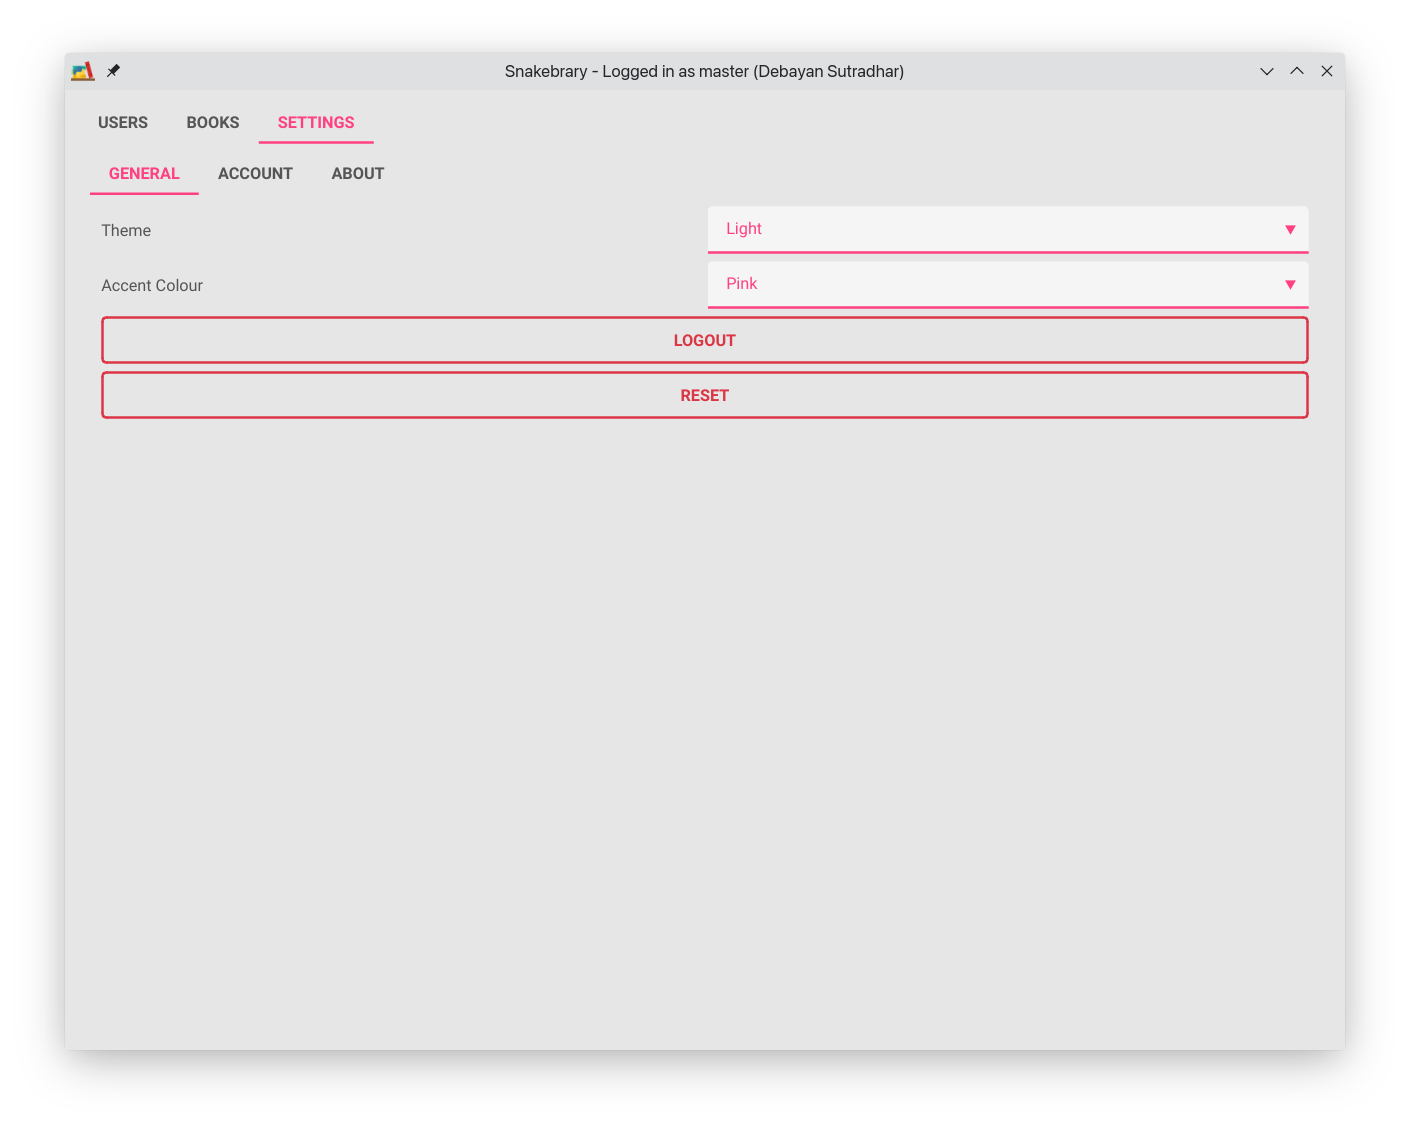
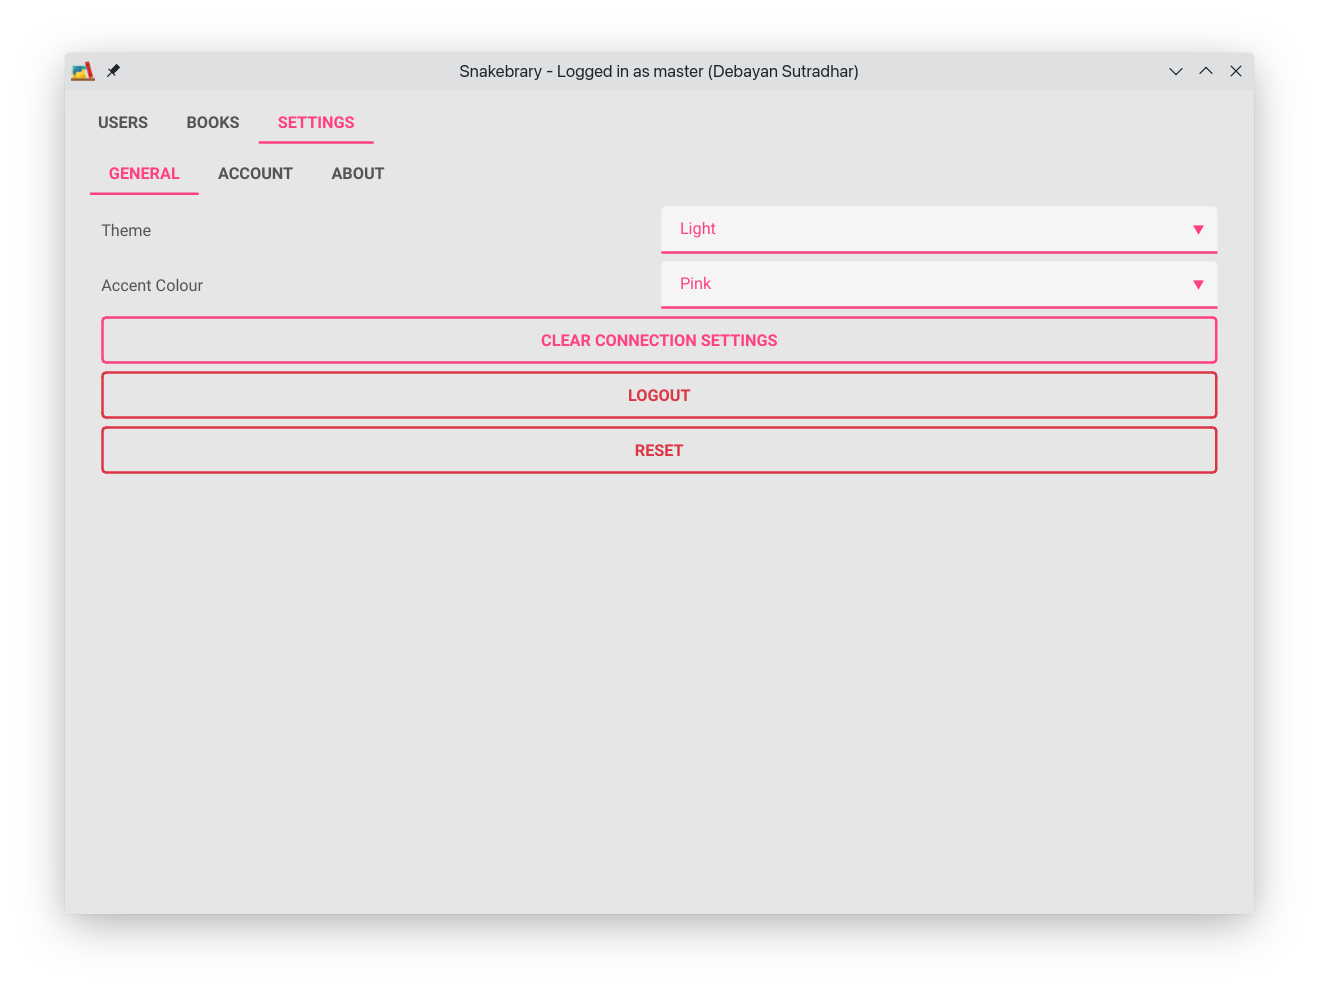
Added remember connections options, updated screenshots

Changed region(s): [[0.0311, 0.0605, 0.9325, 0.4844], [0.0933, 0.9082, 0.9014, 0.9384], [0.3419, 0.0605, 0.6528, 0.0908]]

diff --git a/ui/window/connection_details_widget.py b/ui/window/connection_details_widget.py
@@ -1,5 +1,5 @@
 from PySide2.QtCore import Qt
-from PySide2.QtWidgets import QApplication, QPushButton, QVBoxLayout, QWidget, QLabel
+from PySide2.QtWidgets import QApplication, QPushButton, QVBoxLayout, QWidget, QLabel, QCheckBox
 
 from logic.database import Database
 from ui.helpers.enhanced_controls import LineEdit
@@ -32,6 +32,9 @@ class ConnectionDetailsWidget(QWidget):
         self.user_field = LineEdit('User')
         self.password_field = LineEdit('Password', password_mode=True)
 
+        self.remember_me_checkbox = QCheckBox('Remember Connection Settings')
+        self.remember_me_checkbox.setChecked(True)
+
         self.connect_server_button = QPushButton('Connect')
         self.connect_server_button.clicked.connect(self.connect_server_button_clicked)
 
@@ -45,6 +48,7 @@ class ConnectionDetailsWidget(QWidget):
         layout.addWidget(self.port_field)
         layout.addWidget(self.user_field)
         layout.addWidget(self.password_field)
+        layout.addWidget(self.remember_me_checkbox)
         layout.addWidget(self.error_label)
         layout.addWidget(self.connect_server_button)
 
@@ -97,10 +101,11 @@ class ConnectionDetailsWidget(QWidget):
             if Database.is_new_local_setup():
                 Database.create_local_database_settings_table()
 
-            Database.set_local_database_server_host(host)
-            Database.set_local_database_server_port(port)
-            Database.set_local_database_server_user(user)
-            Database.set_local_database_server_password(password)
+            if self.remember_me_checkbox.isChecked():
+                Database.set_local_connection_settings(host, port, user, password)
+            else:
+                Database.clear_local_connection_settings()
+
 
             Database.save_local_database()
 

diff --git a/main.py b/main.py
@@ -43,15 +43,20 @@ def start():
     if exit_code == 6504:
         start()
 
+def start_connection_details_widget():
+    connection_details = ConnectionDetailsWidget(decide_window)
+    connection_details.show()
+    center_screen(connection_details)
+    return connection_details
 
 def decide_window():
     if Database.is_new_local_setup():
-        connection_details = ConnectionDetailsWidget(decide_window)
-        connection_details.show()
-        center_screen(connection_details)
-        return connection_details
+        return start_connection_details_widget()
     else:
-        if not Database.is_connected():
+        if not Database.is_connected() :
+            if Database.is_local_connection_settings_clear():
+                return start_connection_details_widget()
+
             try:
                 Database.create_connection(Database.get_local_database_server_host(),
                                             Database.get_local_database_server_user(),
@@ -60,11 +65,11 @@ def decide_window():
                 return decide_window()
             except Error as e:
                 print(e)
-                connection_details = ConnectionDetailsWidget(decide_window)
-                connection_details.error_label.setText(e.msg)
-                connection_details.show()
-                center_screen(connection_details)
-                return connection_details
+                connection_details_widget = start_connection_details_widget()
+                connection_details_widget.error_label.setText(e.msg)
+                Database.clear_local_connection_settings()
+                Database.save_local_database()
+                return connection_details_widget
             
         if Database.is_new_server_setup():
             welcome = Welcome()

diff --git a/ui/window/dashboard/settings_tab/general_tab.py b/ui/window/dashboard/settings_tab/general_tab.py
@@ -45,6 +45,12 @@ class GeneralTab(QWidget, QtStyleTools):
         layout.addWidget(self.theme_combo_box)
         layout.addWidget(self.accent_colour_combo_box)
 
+        self.clear_local_connection_settings_button = QPushButton('Clear Connection Settings')
+        self.clear_local_connection_settings_button.clicked.connect(self.clear_local_connection_settings)
+        self.clear_local_connection_settings_button.setDisabled(Database.is_local_connection_settings_clear())
+
+        layout.addWidget(self.clear_local_connection_settings_button)
+
         self.logout_button = QPushButton('Logout')
         self.logout_button.setProperty('class', 'danger')
         self.logout_button.clicked.connect(self.restart)
@@ -84,3 +90,8 @@ Continue?''', QMessageBox.Yes, QMessageBox.No)
     def restart(self):
         QApplication.closeAllWindows()
         QCoreApplication.exit(6504)
+    
+    def clear_local_connection_settings(self):
+        Database.clear_local_connection_settings()
+        Database.save_local_database()
+        self.clear_local_connection_settings_button.setDisabled(True)

diff --git a/logic/database.py b/logic/database.py
@@ -406,3 +406,18 @@ class Database:
             return None
         else:
             return tbr[0]
+
+    @staticmethod
+    def clear_local_connection_settings():
+        Database.set_local_connection_settings('', '', '', '')
+    
+    @staticmethod
+    def set_local_connection_settings(host, port, user, password):
+        Database.set_local_database_server_host(host)
+        Database.set_local_database_server_port(port)
+        Database.set_local_database_server_user(user)
+        Database.set_local_database_server_password(password)
+    
+    @staticmethod
+    def is_local_connection_settings_clear():
+        return Database.get_local_database_server_host()==''

diff --git a/screenshots/README.md b/screenshots/README.md
@@ -6,6 +6,10 @@ Login Prompt
 
 ![login_prompt.png](https://raw.githubusercontent.com/rnayabed/SnakeBrary/master/screenshots/login_prompt.png)
 
+SQL Server Connection Prompt
+
+![sql_server_connection_prompt.png](https://raw.githubusercontent.com/rnayabed/SnakeBrary/master/screenshots/sql_server_connection_prompt.png)
+
 Add new Admin user (Accessible to master account only)
 
 ![add_admin_user.png](https://raw.githubusercontent.com/rnayabed/SnakeBrary/master/screenshots/add_admin_user.png)
